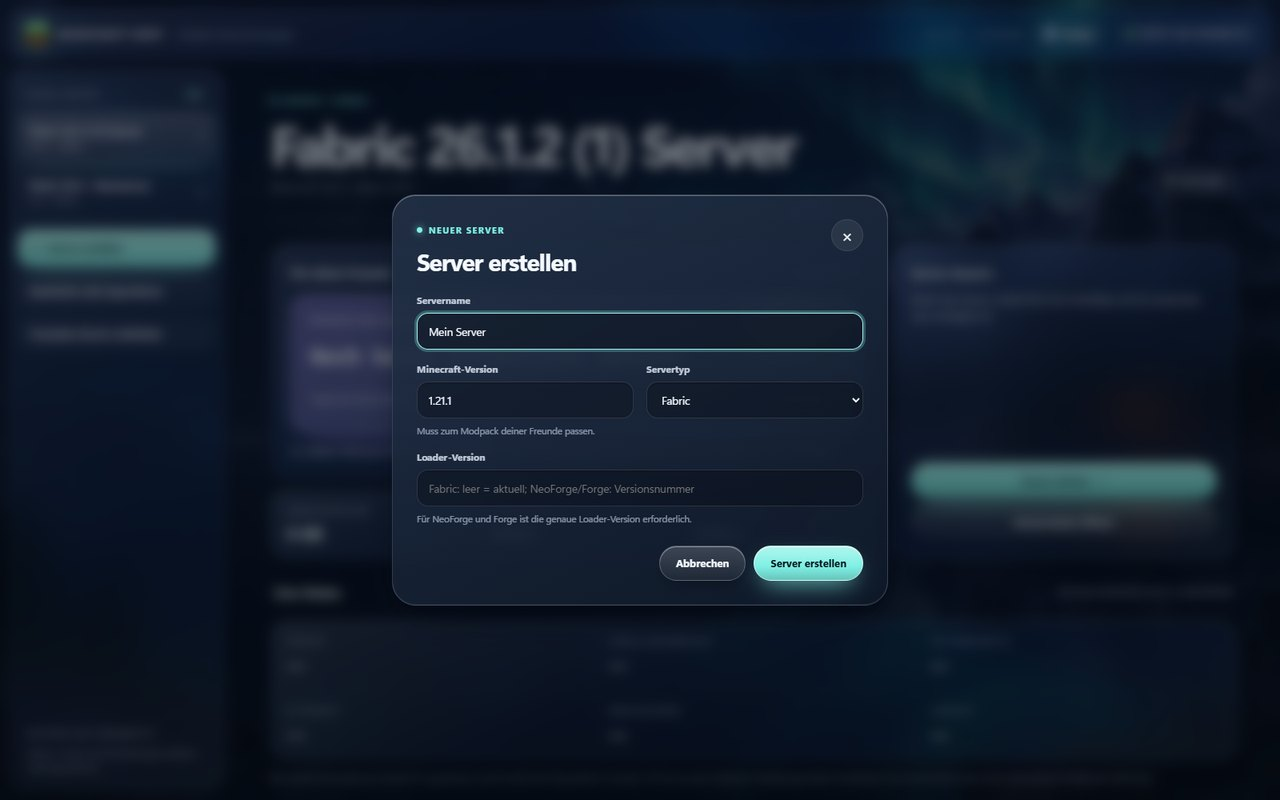
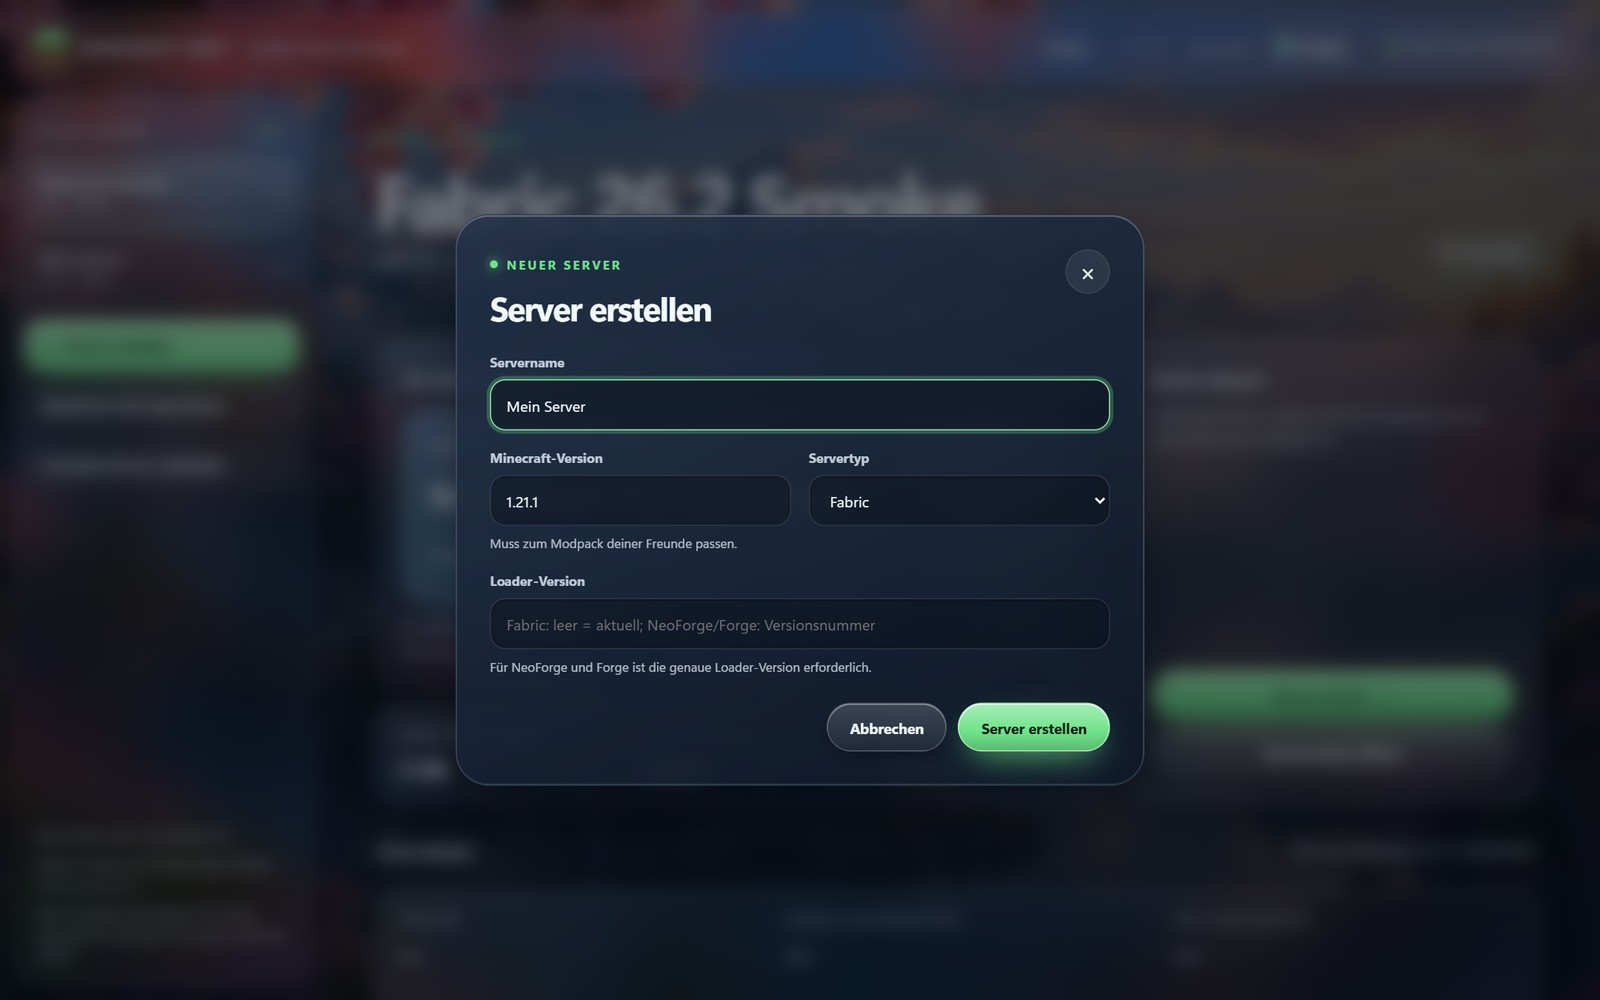
Music never starts on its own; only the music button plays it

diff --git a/music-player.js b/music-player.js
@@ -1,6 +1,5 @@
 /* Built-in ambient soundtrack, generated in the browser with Web Audio (no external player).
-   It starts as soon as the page opens. Browsers may hold sound until the visitor first interacts,
-   so the first tap, click, key press or scroll starts it if it was blocked. */
+   It never starts on its own: sound only plays after the visitor presses the music button. */
 (() => {
   'use strict';
   const MUTE_KEY = 'site-music-muted';
@@ -14,8 +13,7 @@
   ];
   const TARGET_VOLUME = 0.7;
 
-  let muted = false;
-  try { muted = localStorage.getItem(MUTE_KEY) === '1'; } catch (error) { /* private mode */ }
+  let muted = true; // off on every visit until the visitor turns it on
 
   let ctx = null;
   let master = null;
@@ -192,24 +190,5 @@
     }
   });
 
-  // Player clicks have their own handler: do not start in capture phase and
-  // immediately mute again when the same click reaches the button.
-  const gestures = ['pointerdown', 'keydown', 'touchend'];
-  function onFirstGesture(event) {
-    if (root.contains(event.target) || event.repeat || event.ctrlKey || event.metaKey || event.altKey) return;
-    if (!muted) startEngine();
-    if (muted || (ctx && ctx.state === 'running')) {
-      gestures.forEach((name) => window.removeEventListener(name, onFirstGesture, true));
-    }
-  }
-  gestures.forEach((name) => window.addEventListener(name, onFirstGesture, true));
-
   refreshUi();
-  if (!muted) {
-    startEngine();
-    // Chrome creates the context already running when the visitor has played media on this site before.
-    setTimeout(() => {
-      if (ctx && ctx.state === 'running') refreshUi();
-    }, 400);
-  }
 })();

diff --git a/liquid.js b/liquid.js
@@ -74,6 +74,15 @@
     nav.classList.remove('open'); menu?.setAttribute('aria-expanded', 'false');
   }));
 
+  // Close the mobile navigation without leaving keyboard focus hidden.
+  nav?.addEventListener('keydown', (event) => {
+    if (event.key === 'Escape' && nav.classList.contains('open')) {
+      nav.classList.remove('open');
+      menu?.setAttribute('aria-expanded', 'false');
+      menu?.focus();
+    }
+  });
+
   // ----- Active section in nav -----
   const navLinks = [...document.querySelectorAll('.nav-links a[href^="#"]')];
   if (navLinks.length && 'IntersectionObserver' in window) {

diff --git a/AI-HANDOFF.md b/AI-HANDOFF.md
@@ -1,0 +1,8 @@
+
+## 2026-10-28 — Codex website UI fixes alongside Claude
+
+- Scope: website `liquid.css` / `liquid.js` (under `docs/` except portfolio), plus ambient `music-player.js` on portfolio, Modspire and Host. Studio retains its existing Spotify player. No site HTML or media edited in this pass.
+- Ambient controls now report actual AudioContext playback state and unsupported audio honestly, isolate player activation from global gesture listeners, and use a compact mobile button. Shared CSS constrains playlist height, repairs 320px download-card overflow and lets short-screen mobile menus scroll. Escape closes the mobile menu and restores button focus.
+- Verification artifacts: `C:/Users/luisw/Documents/Codex/2026-10-27/ich/work/verify-site-ui.cjs` (4 sites x 4 viewports, playback/remembered mute/menu/layout plus unsupported Web Audio); `music-first-click-regression.cjs` compares saved old/new player behavior. JS syntax and scoped `git diff --check` passed. Tests block external requests, so real Spotify playback/release API responses are outside coverage.
+- Claude changed/committed files concurrently: some player/CSS edits are already incorporated into its new commits; remaining CSS/menu edits may still be uncommitted. Codex made no commits or pushes. Preserve existing media/HTML/app changes and inspect the current diff before the next publication.
+- User suggested https://github.com/chaseai-yt/claudex-loop . Skill and runtime/build references inspected; no Claude CLI found on PATH or the checked standard locations, so no independent cross-provider review was run or claimed.
